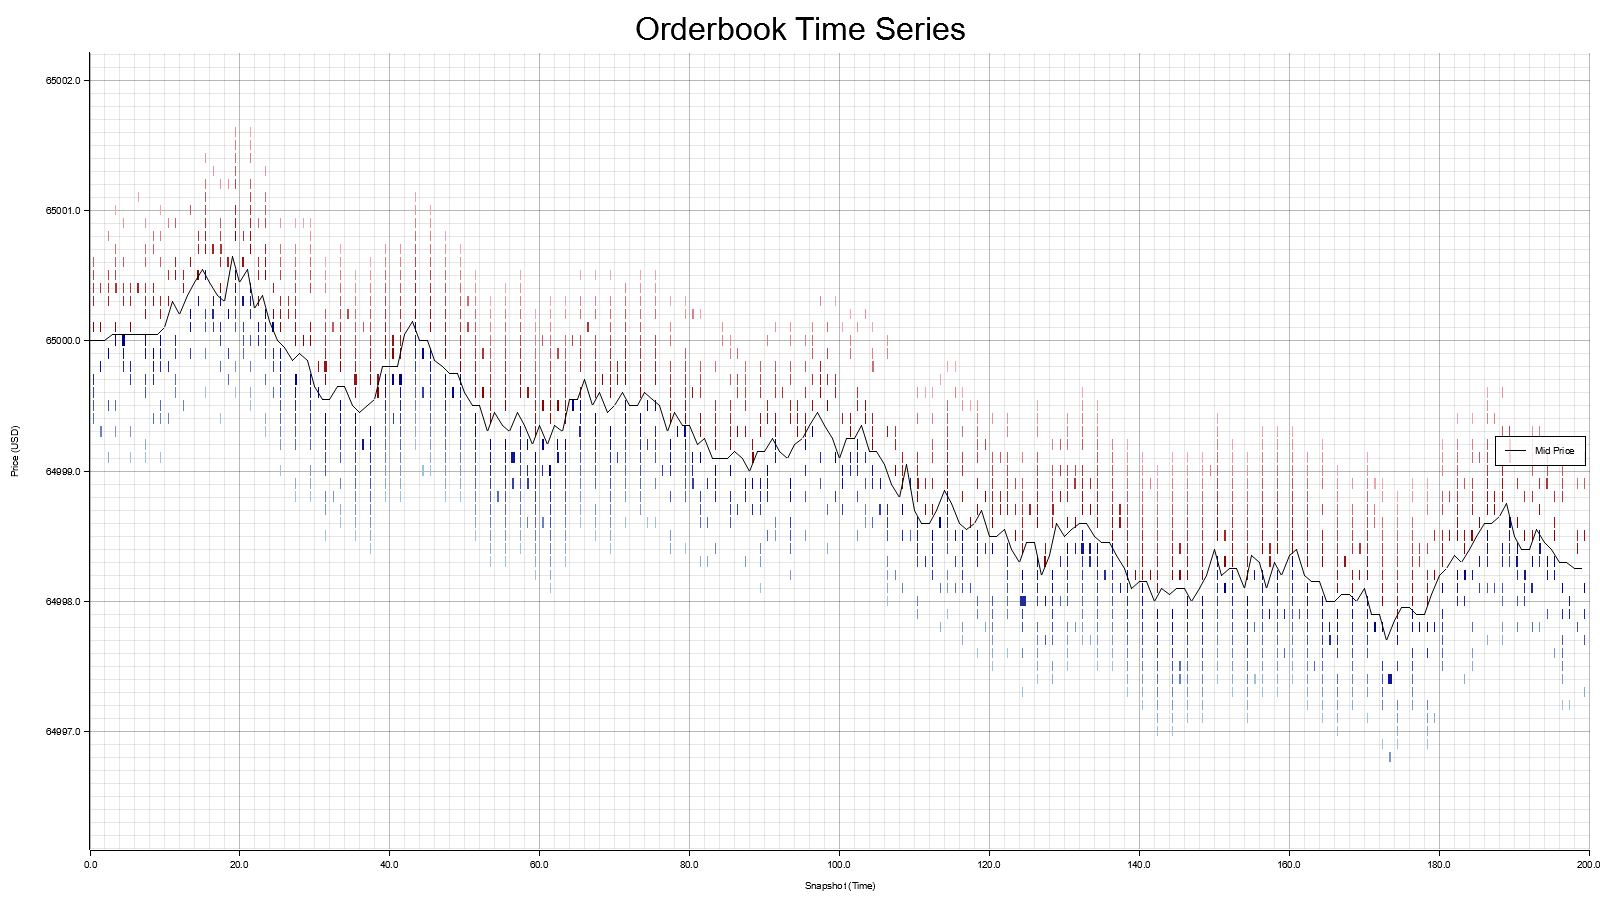
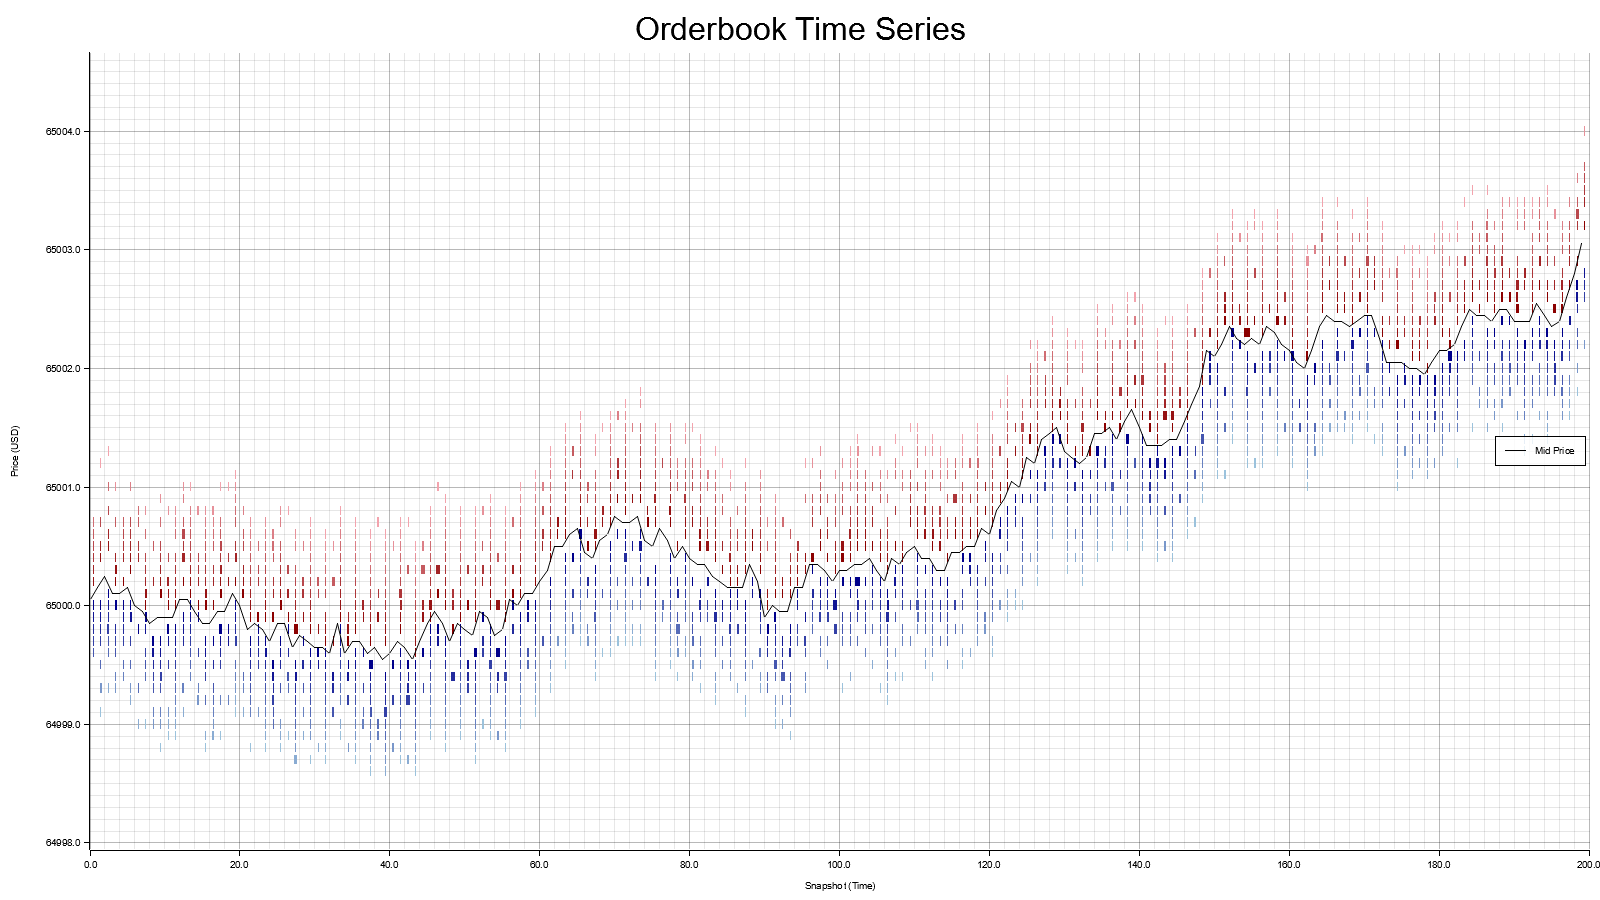
fix plot orderbook

Changed region(s): [[0.0312, 0.1556, 1.0, 0.9333], [0.0312, 0.0622, 1.0, 0.1244], [0.0312, 0.1244, 0.0625, 0.1556]]

diff --git a/case_studies/02_hft_orderbook_rust/hft_optimization/src/bin/plot_orderbook.rs b/case_studies/02_hft_orderbook_rust/hft_optimization/src/bin/plot_orderbook.rs
@@ -51,7 +51,7 @@ fn main() -> Result<(), Box<dyn Error>> {
     let mut sim = LOBSimulator::with_config(sim_config);
 
     // Create a book with the same parameters
-    let mut book = hft_optimisation::suboptimal::book::L2Book::new(tick_size, lot_size);
+    let mut book = hft_optimisation::optimized::book::L2Book::new(tick_size, lot_size);
 
     // Bootstrap (full book)
     let boot = sim.bootstrap_update();

diff --git a/case_studies/02_hft_orderbook_rust/hft_optimization/src/suboptimal/mod.rs b/case_studies/02_hft_orderbook_rust/hft_optimization/src/suboptimal/mod.rs
@@ -1,11 +1,3 @@
-/// Module containing base types (now in common::types)
-#[deprecated(note = "Use crate::common::types instead")]
-pub mod types;
-
-/// Module containing L2 message structures (now in common::messages)
-#[deprecated(note = "Use crate::common::messages instead")]
-pub mod messages;
-
 /// Module containing the L2Book structure and methods (HashMap version)
 pub mod book;
 
